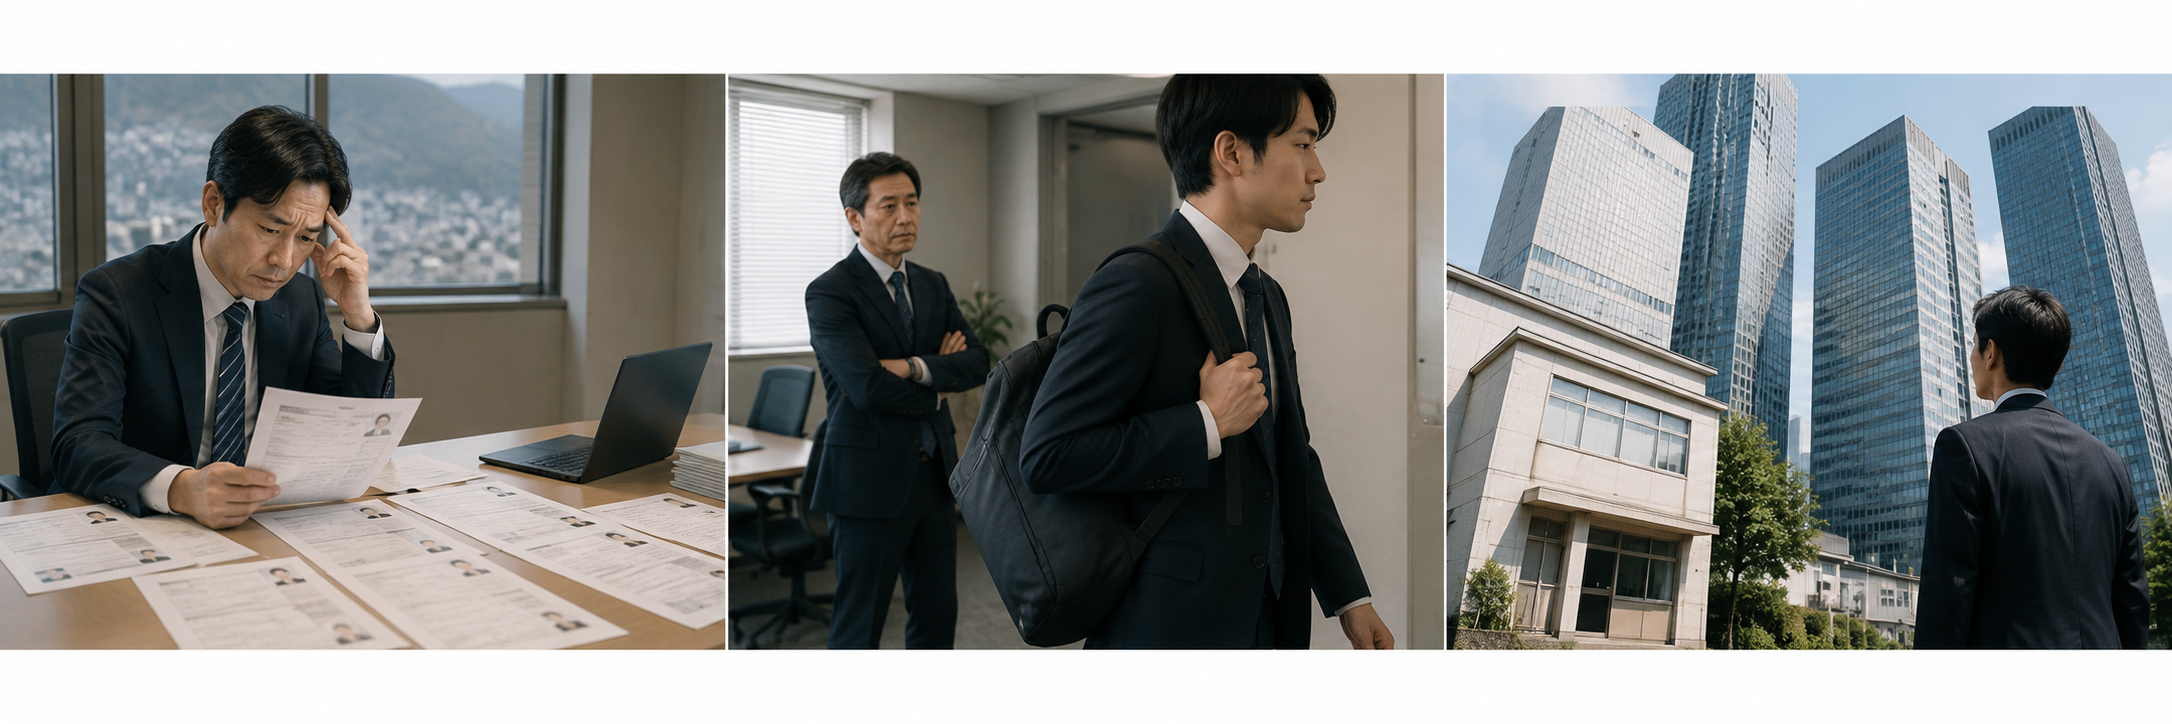
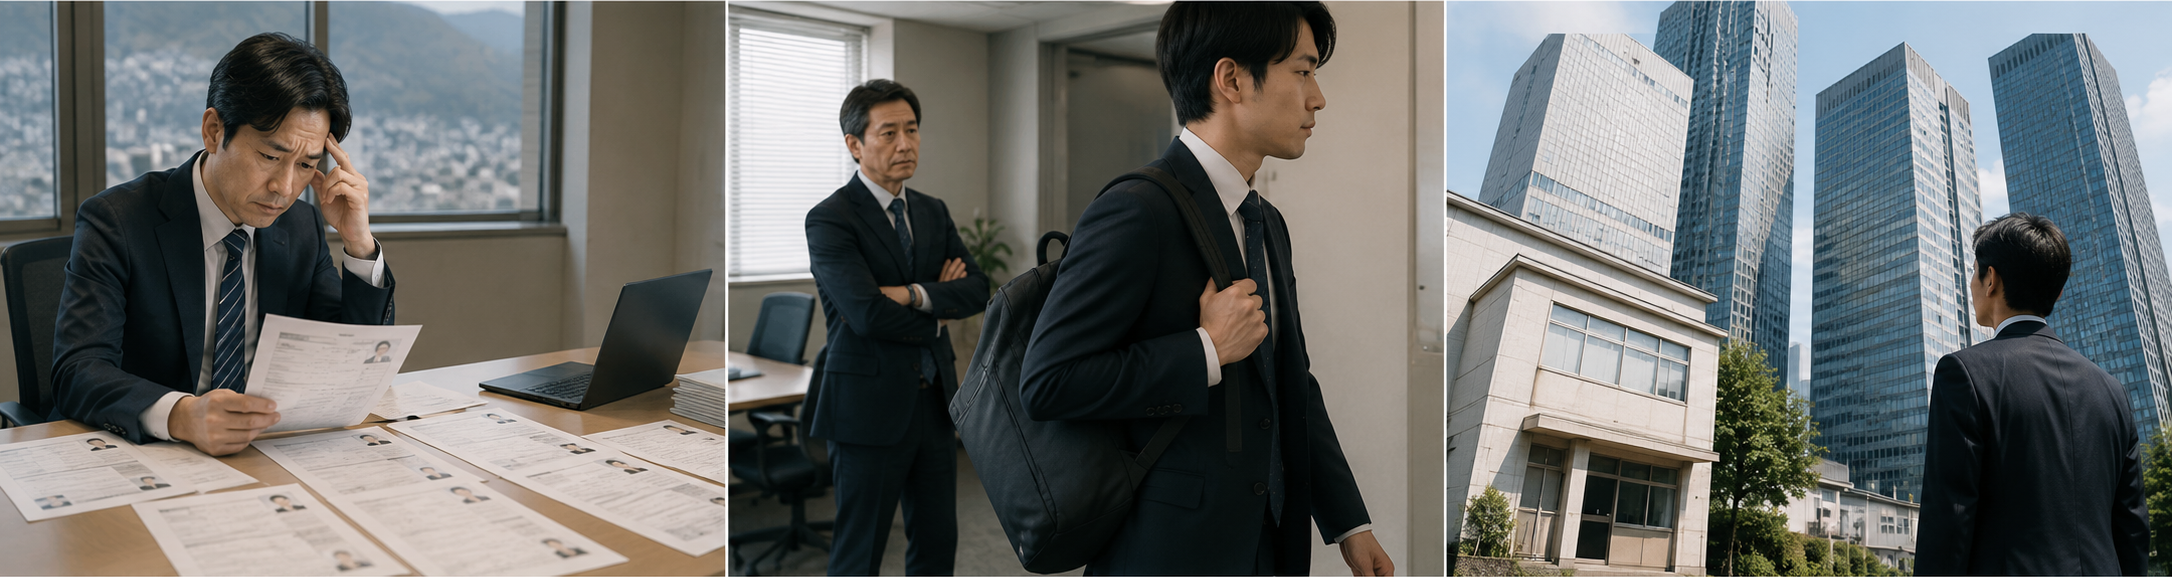
v10: PROBLEM画像の白余白をトリミング・横幅フル表示に変更

diff --git a/v10/index.html b/v10/index.html
@@ -701,7 +701,9 @@
       <p>幹部候補・右腕が育たないので、経営者が現場から離れられない</p>
     </div>
   </div>
-  <img src="problem.png" alt="" style="width:100%; display:block; margin-top:40px; border-radius:4px;">
+  <div style="margin: 40px -24px 0;">
+    <img src="problem.png" alt="" style="width:100%; display:block;">
+  </div>
 </section>
 
 <div class="divider"></div>
